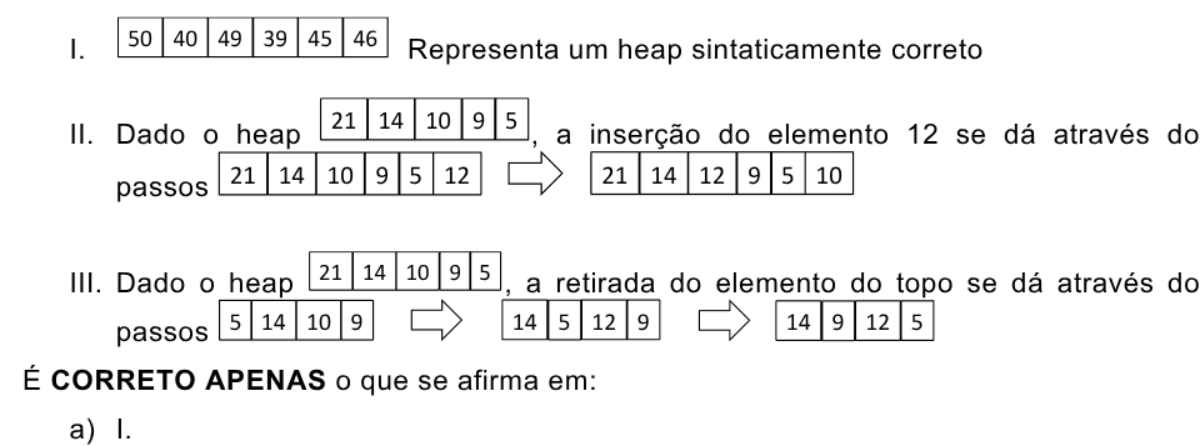
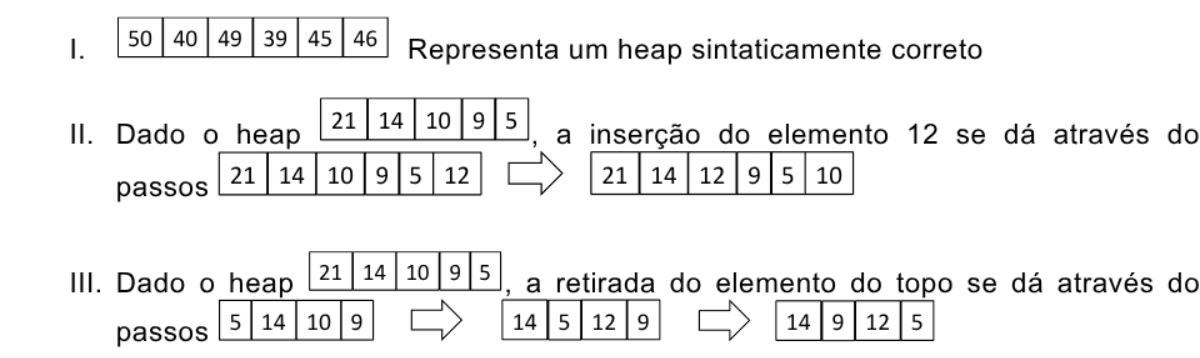
fix(provas): 023/2018 e 061/2018 conferidas com os PDFs oficiais
Texto da 023 Q01 e Q02 e da 061 Q09 igual ao caderno, recortes da 023 Q04
e da 061 Q03 sem sobra. Letras oficiais conferidas, sem divergência.

Changed region(s): [[0.0, 0.2151, 1.0, 1.0], [0.0925, 0.0307, 0.8325, 0.1844]]

diff --git a/quiz/questoes.js b/quiz/questoes.js
@@ -278,7 +278,7 @@ window.PROVAS = [
     "numero": 7,
     "topico": 6,
     "formato": "afirmações",
-    "enunciado": "Considere as afirmações sobre busca binária:\n\ni) é utilizada apenas sobre vetores ordenados\nii) pode determinar se uma chave está ou não com um número de comparações de chave inferior a 2log2 n passos, onde n é o tamanho do vetor.\niii) Supera a busca sequencial quando o vetor é grande, por exemplo com mais que mil elementos, e está ordenado.",
+    "enunciado": "Considere as afirmações sobre busca binária:\n\ni) é utilizada apenas sobre vetores ordenados\nii) pode determinar se uma chave está ou não com um número de comparações de chave inferior a 2log₂ n passos, onde n é o tamanho do vetor.\niii) Supera a busca sequencial quando o vetor é grande, por exemplo com mais que mil elementos, e está ordenado.",
     "alternativas": [
      {
       "letra": "A",
@@ -439,7 +439,7 @@ window.PROVAS = [
      },
      {
       "letra": "D",
-      "texto": "Os dois códigos geram erros de vazamento de memória ou falha de segmentação",
+      "texto": "Os dois códigos geram erros de vazamento de memória ou de falha de segmentação",
       "porque": "Nenhum dos dois aloca memória, então não há vazamento. O I é correto na leitura da banca."
      },
      {
@@ -1101,7 +1101,7 @@ window.PROVAS = [
      {
       "letra": "E",
       "texto": "Posição 3 e posição 5",
-      "porque": "A troca entre 3 e 5 seria só da quarta passada em diante."
+      "porque": "Essa troca não acontece em nenhuma passada. Simulando: a 3ª troca é entre as posições 2 e 3, e a 4ª entre 3 e 6."
      }
     ],
     "gabarito": "C",
@@ -1123,17 +1123,17 @@ window.PROVAS = [
      {
       "letra": "A",
       "texto": "1 2 3 4 5",
-      "porque": "Seria a fila sem nenhuma retirada. Foram 4 retiradas."
+      "porque": "É a ordem crescente dos valores, e a fila guarda ordem de chegada. Além disso, houve 4 retiradas."
      },
      {
       "letra": "B",
       "texto": "2 3 1 4 5",
-      "porque": "Também ignora as retiradas. A RETIRA tira o mais antigo, o da esquerda."
+      "porque": "É a ordem de chegada de todos os elementos inseridos, como se não houvesse retirada. A RETIRA tira o mais antigo, o da esquerda, e foram 4."
      },
      {
       "letra": "C",
       "texto": "3 1 4",
-      "porque": "Seria o estado depois de só uma retirada a menos. Faltam duas retiradas (do 1 e do 4)."
+      "porque": "O 3 já saiu na segunda RETIRA (logo depois do INSERE(1)), então não pode sobrar. A fila passa por [1 4 5], depois [4 5] e termina em [5]."
      },
      {
       "letra": "D",
@@ -1575,7 +1575,7 @@ window.PROVAS = [
     "numero": 15,
     "topico": 7,
     "formato": "afirmações",
-    "enunciado": "Considere as afirmações a seguir sobre os algoritmos de ordenação Quicksort, MergeSort, HeapSort e InsertionSort\n\nI) São algoritmos estáveis: InsertionSort, QuickSort e MergeSorte\nII) Pior caso tem número de operações quadrático (proporcional a uma constante vezes n²): InsertionSort, QuickSort\nIII) Utiliza um espaço extra proporcional a n² (proporcional ao quadrado do número de elementos): HeapSort,\nIV) A ordem das entradas é incapaz de influenciar o desempenho do algoritmo: InsertionSort, MergeSort\n\nMarque a alternativa que indica TODAS as afirmações INCORRETAS feitas:",
+    "enunciado": "Considere as afirmações a seguir sobre os algoritmos de ordenação Quicksort, MergeSort, HeapSort e InsertionSort\n\nI) São algoritmos estáveis: InsertionSort, QuickSort e MergeSorte\nII) Pior caso tem número de operações quadrático (proporcional a uma constante vezes n² : InsertionSort, QuickSort\nIII) Utiliza um espaço extra proporcional a n² (proporcional ao quadrado do número de elementos): HeapSort,\nIV) A ordem das entradas é incapaz de influenciar o desempenho do algoritmo: InsertionSort, MergeSort\n\nMarque a alternativa que indica TODAS as afirmações INCORRETAS feitas:",
     "alternativas": [
      {
       "letra": "A",
@@ -2631,7 +2631,7 @@ window.PROVAS = [
     "numero": 17,
     "topico": 4,
     "formato": "conceito",
-    "enunciado": "As árvores são estruturas de dados poderosas e se subdividem em vários tipos, cada um dos quais com suas características próprias. Relacione os tipos de árvores, apresentados na coluna da esquerda, com as suas respectivas características, indicadas na coluna da direita:\n\n| Tipo de árvore | Característica |\n|---|---|\n| I – Heap | W – Pode degenerar se os elementos forem inseridos de forma ordenada. |\n| II – Rubro-Negra | X – É balanceada. |\n| III – Avore AVL | Y – Têm altura sempre proporcional/próxima a O(log2 n), onde n é o número de nós que contém. |\n| IV – Árvores binária de busca | Z – São sempre completas. |\n\nEstão CORRETAS as associações:",
+    "enunciado": "As árvores são estruturas de dados poderosas e se subdividem em vários tipos, cada um dos quais com suas características próprias. Relacione os tipos de árvores, apresentados na coluna da esquerda, com as suas respectivas características, indicadas na coluna da direita:\n\n| Tipo de árvore | Característica |\n|---|---|\n| I – Heap | W – Pode degenerar se os elementos forem inseridos de forma ordenada. |\n| II – Rubro-Negra | X – É balanceada. |\n| III – Avore AVL | Y – Têm altura sempre proporcional/próxima a O(log₂ n), onde n é o número de nós que contém. |\n| IV – Árvores binária de busca | Z – São sempre completas. |\n\nEstão CORRETAS as associações:",
     "alternativas": [
      {
       "letra": "A",
@@ -3422,7 +3422,7 @@ window.PROVAS = [
     "numero": 14,
     "topico": 6,
     "formato": "afirmações",
-    "enunciado": "Sobre as afirmações abaixo:\n\nI. Pode-se implementar uma busca em um vetor não ordenado a custo máximo inferior a n/2 operações, onde n é o número de elementos do vetor, desde que a chave buscada ocorra no vetor, não importando qual a posição em que a mesma ocorre.\nII. A busca por uma chave em um vetor ordenado pode ser realizada corretamente com um número de operações proporcional a log2 n, onde n é o número de elementos do vetor.\nIII. O número de comparações realizadas para determinar se uma chave de busca está ou não em um vetor não ordenado é sempre menor do que o número de comparações envolvendo a mesma chave de busca em uma lista encadeada dinâmica, desde que a quantidade e a ordem dos elementos inseridos nas duas estruturas seja a mesma.\n\nMarque a alternativa CORRETA:",
+    "enunciado": "Sobre as afirmações abaixo:\n\nI. Pode-se implementar uma busca em um vetor não ordenado a custo máximo inferior a n/2 operações, onde n é o número de elementos do vetor, desde que a chave buscada ocorra no vetor, não importando qual a posição em que a mesma ocorre.\nII. A busca por uma chave em um vetor ordenado pode ser realizada corretamente com um número de operações proporcional a log₂ n, onde n é o número de elementos do vetor.\nIII. O número de comparações realizadas para determinar se uma chave de busca está ou não em um vetor não ordenado é sempre menor do que o número de comparações envolvendo a mesma chave de busca em uma lista encadeada dinâmica, desde que a quantidade e a ordem dos elementos inseridos nas duas estruturas seja a mesma.\n\nMarque a alternativa CORRETA:",
     "alternativas": [
      {
       "letra": "A",
@@ -3775,7 +3775,7 @@ window.PROVAS = [
      },
      {
       "letra": "E",
-      "texto": "O(N²), pois, como há dois vetores, precisam-se fazer dois laços de forma aninhada (um dentro do outro), gerando uma multiplicação das quantidades de elementos.",
+      "texto": "O(N²), pois, como há dois vetores, precisa-se fazer dois laços de forma aninhada (um dentro do outro), gerando uma multiplicação das quantidades de elementos.",
       "porque": "Os laços não são aninhados: cada passo avança um dos dois índices e o total de passos é 2N."
      }
     ],
@@ -3816,7 +3816,7 @@ window.PROVAS = [
      },
      {
       "letra": "D",
-      "texto": "III, IV e V.",
+      "texto": "III, IV e V, apenas.",
       "porque": "III e IV são falsas."
      },
      {
@@ -5052,8 +5052,8 @@ window.PROVAS = [
     "alternativas": [
      {
       "letra": "A",
-      "texto": "2 * (m/2)^(d-1)",
-      "porque": "É a única fórmula que cresce exponencialmente com o nível. A raiz tem pelo menos 2 filhos e cada outro nó, pelo menos m/2, então a cada nível o mínimo é multiplicado por m/2."
+      "texto": "2 * m/2^(d-1)",
+      "porque": "É a única fórmula com o nível no expoente, e a que mais se aproxima da regra (lida como 2 · (m/2)^(d-1), provável intenção da banca). A raiz tem pelo menos 2 filhos e cada outro nó, pelo menos m/2, então a cada nível o mínimo é multiplicado por m/2."
      },
      {
       "letra": "B",
@@ -5077,7 +5077,7 @@ window.PROVAS = [
      }
     ],
     "gabarito": "anulada",
-    "resumo": "Pela regra da árvore B, a raiz tem pelo menos 2 filhos e os demais nós pelo menos ⌈m/2⌉, então o número mínimo de nós por nível cresce como uma potência de m/2: a fórmula da A. A banca anulou, provavelmente porque os expoentes se perderam na impressão do caderno (as alternativas aqui foram reconstruídas com `^`). O padrão para lembrar: mínimo por nível = 2 · (m/2) elevado a (nível menos 1).",
+    "resumo": "Pela regra da árvore B, a raiz tem pelo menos 2 filhos e os demais nós pelo menos ⌈m/2⌉, então o número mínimo de nós por nível cresce como uma potência de m/2: a fórmula da A. A banca anulou. No caderno o expoente (d-1) da A está só no 2 de m/2, o que lido ao pé da letra dá outra conta (`^` marca o expoente aqui), e é provável que isso tenha pesado. O padrão para lembrar: mínimo por nível = 2 · (m/2) elevado a (nível menos 1).",
     "assuntos": [
      {
       "num": "0146",
@@ -5562,7 +5562,7 @@ window.PROVAS = [
      }
     ],
     "gabarito": "A",
-    "resumo": "Duas inversões voltam à ordem original: empilhar inverte, a fila preserva a ordem de saída da pilha, e empilhar de novo inverte outra vez. A fila tem 10 no começo (I) e a pilha final tem o 11 no topo (II). Atenção: as alternativas D e E do caderno são iguais, e a letra A é inferência a partir da conta.",
+    "resumo": "Duas inversões voltam à ordem original: empilhar inverte, a fila preserva a ordem de saída da pilha, e empilhar de novo inverte outra vez. A fila tem 10 no começo (I) e a pilha final tem o 11 no topo (II). Atenção: as alternativas D e E do caderno são iguais. A letra A é a da folha oficial e bate com a conta.",
     "assuntos": [
      {
       "num": "0082",
@@ -6411,7 +6411,7 @@ window.PROVAS = [
      {
       "letra": "D",
       "texto": "árvore da figura d)",
-      "porque": "Não é uma ABB (o 6 está à esquerda da raiz 5, mas 6 > 5), e o 2 está desbalanceado (esquerda altura 0, direita altura 2).",
+      "porque": "Não é uma ABB: o 6 está na subárvore esquerda da raiz 5, mas 6 > 5. Os fatores de balanceamento até estão dentro do limite, então o defeito é só a ordem das chaves.",
       "figura": "2019-033-q19-d"
      },
      {

diff --git a/provas-ppgi-ufam/2018-061-prova-conhecimento.md b/provas-ppgi-ufam/2018-061-prova-conhecimento.md
@@ -106,13 +106,13 @@ e) Um array pode ser alocado dinamicamente, situação na qual ele passa a ser d
 ### QUESTÃO 09 (anulada)
 Para uma árvore B, de ordem "m", o número mínimo de descendentes para um nível "d" da árvore é de:
 
-a) 2 * m/2 (d-1)
+a) 2 * m/2^(d-1)
 b) d * m/2
-c) (m*d/2) 2
-d) [(m*d/2) 2 ]/2
-e) d*(m/2) 2
+c) (m*d/2)^2
+d) [(m*d/2)^2]/2
+e) d*(m/2)^2
 
-*(Nota: as alternativas usam expoentes e possivelmente símbolos de teto que a extração de texto não preservou. Os expoentes aparecem soltos acima, e vale conferir a notação no PDF original.)*
+*(Nota: `^` marca o expoente, que no PDF aparece sobrescrito. Na alternativa A o sobrescrito (d-1) está só no 2 de `m/2`, como no caderno.)*
 
 ### QUESTÃO 10
 Dois vetores, v1 e v2, capazes de armazenar N inteiros cada um, estão ordenados de forma crescente e têm a propriedade de que o último elemento de v1 (v1[N-1]) é menor que o primeiro elemento de v2 (v2[0]). É retirado um elemento de cada vez de cada um desses vetores alternadamente, e cada elemento retirado é colocado em uma fila. Posteriormente, os elementos são retirados da fila e inseridos em uma árvore binária de busca. A árvore é percorrida em ordem simétrica, e os elementos são inseridos, assim que retirados, em uma pilha. Depois, cada elemento é retirado da pilha e inserido alternadamente em um dos vetores, começando por v1. Diante do exposto, conclui-se que:
